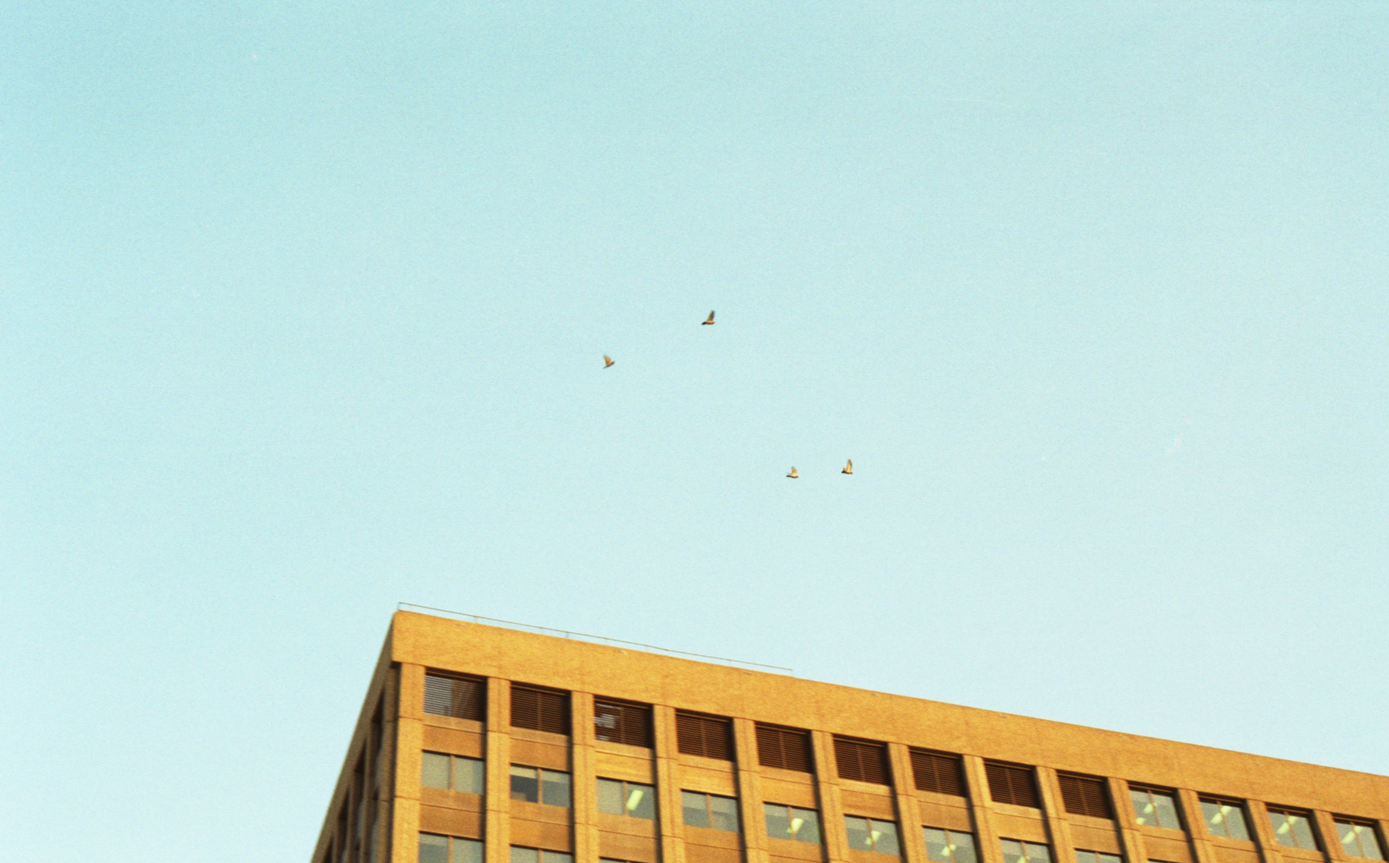
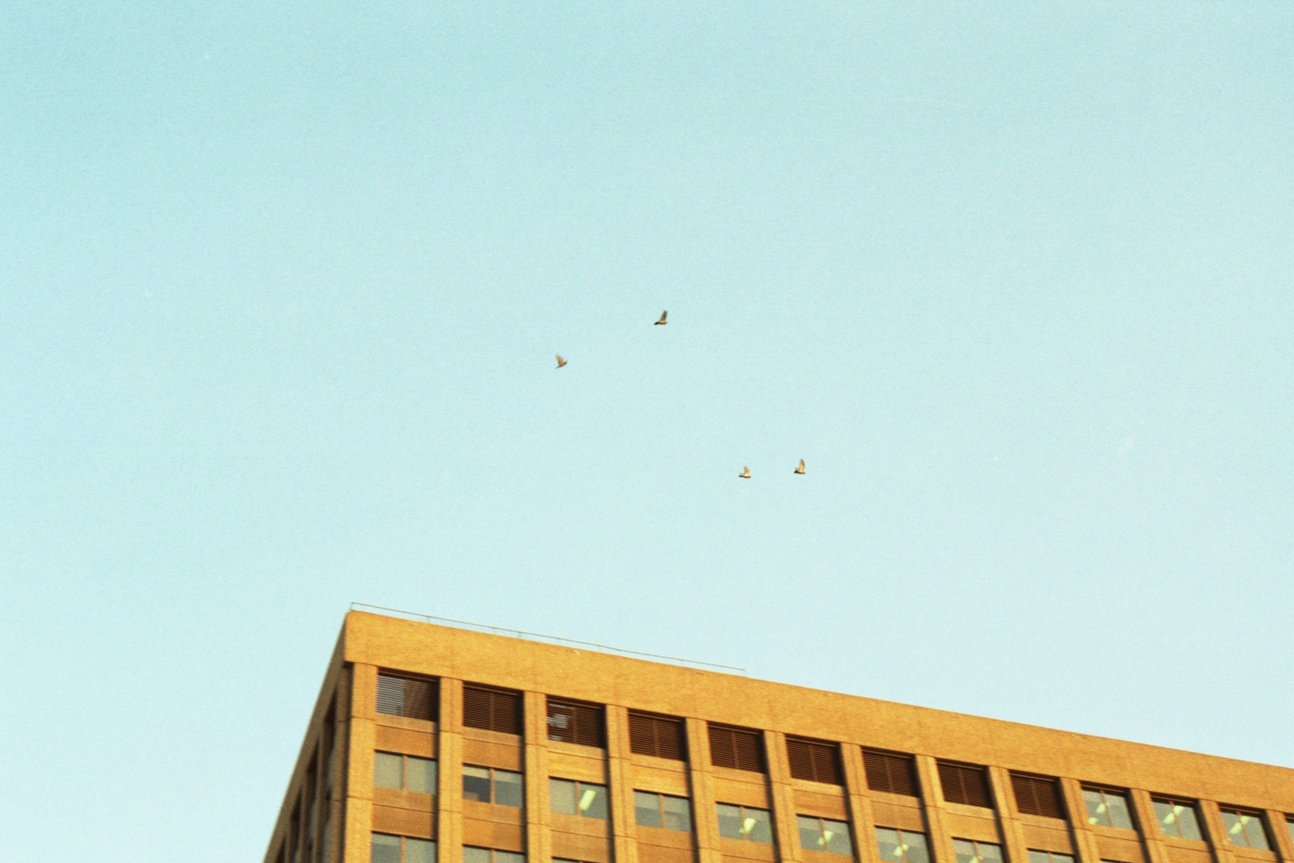
August 27, 2024 - photo gallery update
Fixing layout of photo gallery

diff --git a/css/style.css b/css/style.css
@@ -1230,21 +1230,26 @@
 					grid-template-columns: repeat(3, 1fr);
 					gap: 10px;
 					padding: 10px;
-					margin-top: -60px;
+					margin-top: -80px;
 				}
 				
 				.gallery-item {
 					overflow: hidden;
-					box-shadow: 0 4px 8px rgba(0, 0, 0, 0.1);
+					height: 300px;
+					display: flex;
+    				justify-content: center;
+    				align-items: center;
 				}
 				
 				.gallery-item img {
 					width: 100%;
 					height: auto;
+					object-fit: cover;
 					display: block;
+					
 				}
 				
-				/* Responsive Design for Mobile Devices */
+				/* Responsive for mobile devices*/
 				@media (max-width: 768px) {
 					.gallery {
 						grid-template-columns: 1fr;
